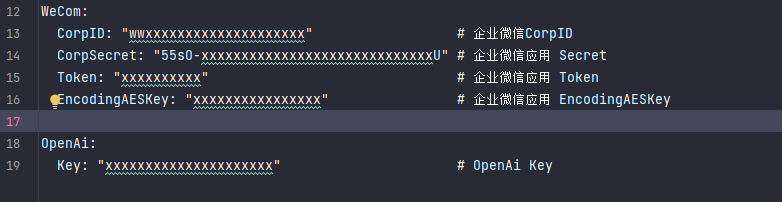
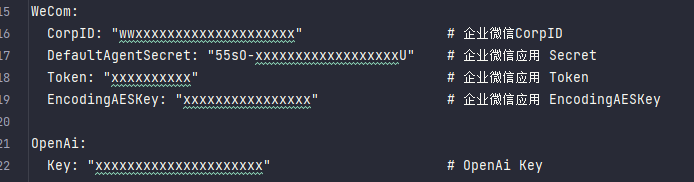
配置名称更新

diff --git a/chat/service/chat/api/internal/logic/chatlogic.go b/chat/service/chat/api/internal/logic/chatlogic.go
@@ -232,8 +232,12 @@ func (l *ChatLogic) setBaseHost() (ls *ChatLogic) {
 }
 
 func sendToUser(agentID int64, userID, msg string, config config.Config) {
-	// 先去查询多应用模式是否开启
-	corpSecret := config.WeCom.CorpSecret
+	// 确认多应用模式是否开启
+	corpSecret := config.WeCom.DefaultAgentSecret
+	// 兼容性调整 取 DefaultAgentSecret 作为默认值 兼容老版本 CorpSecret
+	if corpSecret == "" {
+		corpSecret = config.WeCom.CorpSecret
+	}
 	for _, application := range config.WeCom.MultipleApplication {
 		if application.AgentID == agentID {
 			corpSecret = application.AgentSecret

diff --git a/chat/service/chat/api/internal/config/config.go b/chat/service/chat/api/internal/config/config.go
@@ -27,6 +27,7 @@ type Config struct {
 	// 企业微信，配置信息
 	WeCom struct {
 		CorpID              string
+		DefaultAgentSecret  string `json:",optional"`
 		CorpSecret          string `json:",optional"`
 		Model               string `json:",optional,default=gpt-3.5-turbo-0301"`
 		BasePrompt          string `json:",optional,default=你是ChatGPT，一个由OpenAI训练的大型语言模型，你旨在回答并解决人们的任何问题，并且可以使用多种语言与人交流。"`
